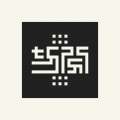
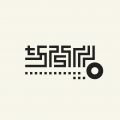
Initial commit

diff --git a/post/chop/index.html b/post/chop/index.html
@@ -4,7 +4,7 @@
 	<meta charset="UTF-8">
 	<meta name="viewport" content="width=device-width, initial-scale=1">
 	<meta http-equiv="X-UA-Compatible" content="IE=edge">
-	<title>イチニノサンプラー</title>
+	<title>サンプラーサン</title>
 	
 	
 	<link rel="stylesheet" href="/css/style.css">
@@ -19,12 +19,20 @@
 	
 	<main>
 		<article>
-			<h1>イチニノサンプラー</h1>
+			<h1>サンプラーサン</h1>
 			
 			<div>
 				<p><img src="./chop_icon.png" alt="alt"></p>
 <hr>
 <h2 id="お知らせ">お知らせ</h2>
+<h3 id="v30">v3.0</h3>
+<p>廃止になる機能もありますので、ご確認ください。<br>
+広告を消す機能は延期となりました。<br>
+いくつかの新機能と不具合の修正です。<br>
+名前が変わりました。 イチニノサンプラー　-&gt; サンプラーサン<br>
+録音可能数が45に増えました。<br>
+一番のパッドに録音した音をワンタッチで分割できます。<br>
+簡易シーケンサーが新しくなりました。</p>
 <h3 id="v14">v1.4</h3>
 <p>ファイルappからファイルの取り込みができます。<br>
 ファイルappへ初期状態の音楽ファイルを書き出せます。<br>
@@ -47,7 +55,7 @@ pitchが100ごとに上がるキーボード風ボタンの追加。<br>
 録音でundoを使えます。</p>
 <p><a href="https://youtu.be/87LinjSA-Nw">demo</a></p>
 <hr>
-<h2 id="イチニノサンプラーとは">イチニノサンプラーとは?</h2>
+<h2 id="サンプラーサンとは">サンプラーサンとは?</h2>
 <p>お手軽サンプラーです。<br>
 工夫して録音すると良い感じになります。<br>
 lo-fiな感じに録音できます。<br>
@@ -58,6 +66,14 @@ lo-fiな感じに録音できます。<br>
 <p><a href="https://apps.apple.com/jp/app/id1446760908?mt=8"><img src="/images/store.png" alt="jp"></a> JP</p>
 <hr>
 <h2 id="information">information</h2>
+<h3 id="v30-1">v3.0</h3>
+<p>Here are some new features and bug fixes.<br>
+Some features will be discontinued, so please check back.<br>
+The ability to remove ads has been postponed.<br>
+The name has been changed.<br>
+The number of possible recordings has been increased.<br>
+You can divide the sound recorded on the most pad by one touch.<br>
+New simple sequencer.</p>
 <h3 id="v14-1">v1.4</h3>
 <p>You can import files from “file.app”.<br>
 The initial state music file can be exported to “file.app”.<br>

diff --git a/post/index.html b/post/index.html
@@ -27,11 +27,18 @@
 
 		
 			<article>
-	<h1><a href="https://kankyo.tk/post/chop/">イチニノサンプラー</a></h1>
+	<h1><a href="https://kankyo.tk/post/chop/">サンプラーサン</a></h1>
 	<time>17.09.2020 09:54</time>
 	
 	<div>
-		お知らせ v1.4 ファイルappからファイルの取り込みができます。
+		お知らせ v3.0 廃止になる機能もありますので、ご確認ください。
+広告を消す機能は延期となりました。
+いくつかの新機能と不具合の修正です。
+名前が変わりました。 イチニノサンプラー　-&gt; サンプラーサン
+録音可能数が45に増えました。
+一番のパッドに録音した音をワンタッチで分割できます。
+簡易シーケンサーが新しくなりました。
+v1.4 ファイルappからファイルの取り込みができます。
 ファイルappへ初期状態の音楽ファイルを書き出せます。
 (自分のファイルのバックアップとしての書き出し機能です。違法な音声の書き出しは禁止です。)
 padボタンに名前が付けられます。
@@ -50,16 +57,16 @@ v1.3.1 パータンを記録できます。
 音を悪く録音できます。
 録音でundoを使えます。
 demo
- イチニノサンプラーとは? お手軽サンプラーです。
+ サンプラーサンとは? お手軽サンプラーです。
 工夫して録音すると良い感じになります。
 lo-fiな感じに録音できます。
 ボタンを押して離すだけで録音ができます。
 ボタンを押した順番を少し記録できます。
 著作権は守りましょう。
   JP
- information v1.4 You can import files from “file.app”.
-The initial state music file can be exported to “file.app”.
-(This is an export function as a backup for your own files. Illegal audio exports are not allowed.
+ information v3.0 Here are some new features and bug fixes.
+Some features will be discontinued, so please check back.
+The ability to remove ads has been postponed.
 		
 			<a href="https://kankyo.tk/post/chop/">Read more...</a>
 		
@@ -304,7 +311,7 @@ Automatic calculation
 		<div>
 			<ul>
 				
-				<li><a href="/post/chop/">イチニノサンプラー</a></li>
+				<li><a href="/post/chop/">サンプラーサン</a></li>
 				
 				<li><a href="/post/zen5/">フリダヤ5</a></li>
 				

diff --git a/post/page/2/index.html b/post/page/2/index.html
@@ -222,7 +222,7 @@ https://firebase.google.com/terms/?hl=ja
 		<div>
 			<ul>
 				
-				<li><a href="/post/chop/">イチニノサンプラー</a></li>
+				<li><a href="/post/chop/">サンプラーサン</a></li>
 				
 				<li><a href="/post/zen5/">フリダヤ5</a></li>
 				

diff --git a/categories/index.html b/categories/index.html
@@ -41,7 +41,7 @@
 		<div>
 			<ul>
 				
-				<li><a href="/post/chop/">イチニノサンプラー</a></li>
+				<li><a href="/post/chop/">サンプラーサン</a></li>
 				
 				<li><a href="/post/zen5/">フリダヤ5</a></li>
 				

diff --git a/index.html b/index.html
@@ -31,7 +31,7 @@
 		<div>
 			<ul>
 				
-				<li><a href="/post/chop/">イチニノサンプラー</a></li>
+				<li><a href="/post/chop/">サンプラーサン</a></li>
 				
 				<li><a href="/post/zen5/">フリダヤ5</a></li>
 				

diff --git a/page/2/index.html b/page/2/index.html
@@ -31,7 +31,7 @@
 		<div>
 			<ul>
 				
-				<li><a href="/post/chop/">イチニノサンプラー</a></li>
+				<li><a href="/post/chop/">サンプラーサン</a></li>
 				
 				<li><a href="/post/zen5/">フリダヤ5</a></li>
 				

diff --git a/tags/index.html b/tags/index.html
@@ -41,7 +41,7 @@
 		<div>
 			<ul>
 				
-				<li><a href="/post/chop/">イチニノサンプラー</a></li>
+				<li><a href="/post/chop/">サンプラーサン</a></li>
 				
 				<li><a href="/post/zen5/">フリダヤ5</a></li>
 				

diff --git a/css/style.css b/css/style.css
@@ -1,0 +1,3 @@
+p {
+    margin-bottom: 4em;
+}
